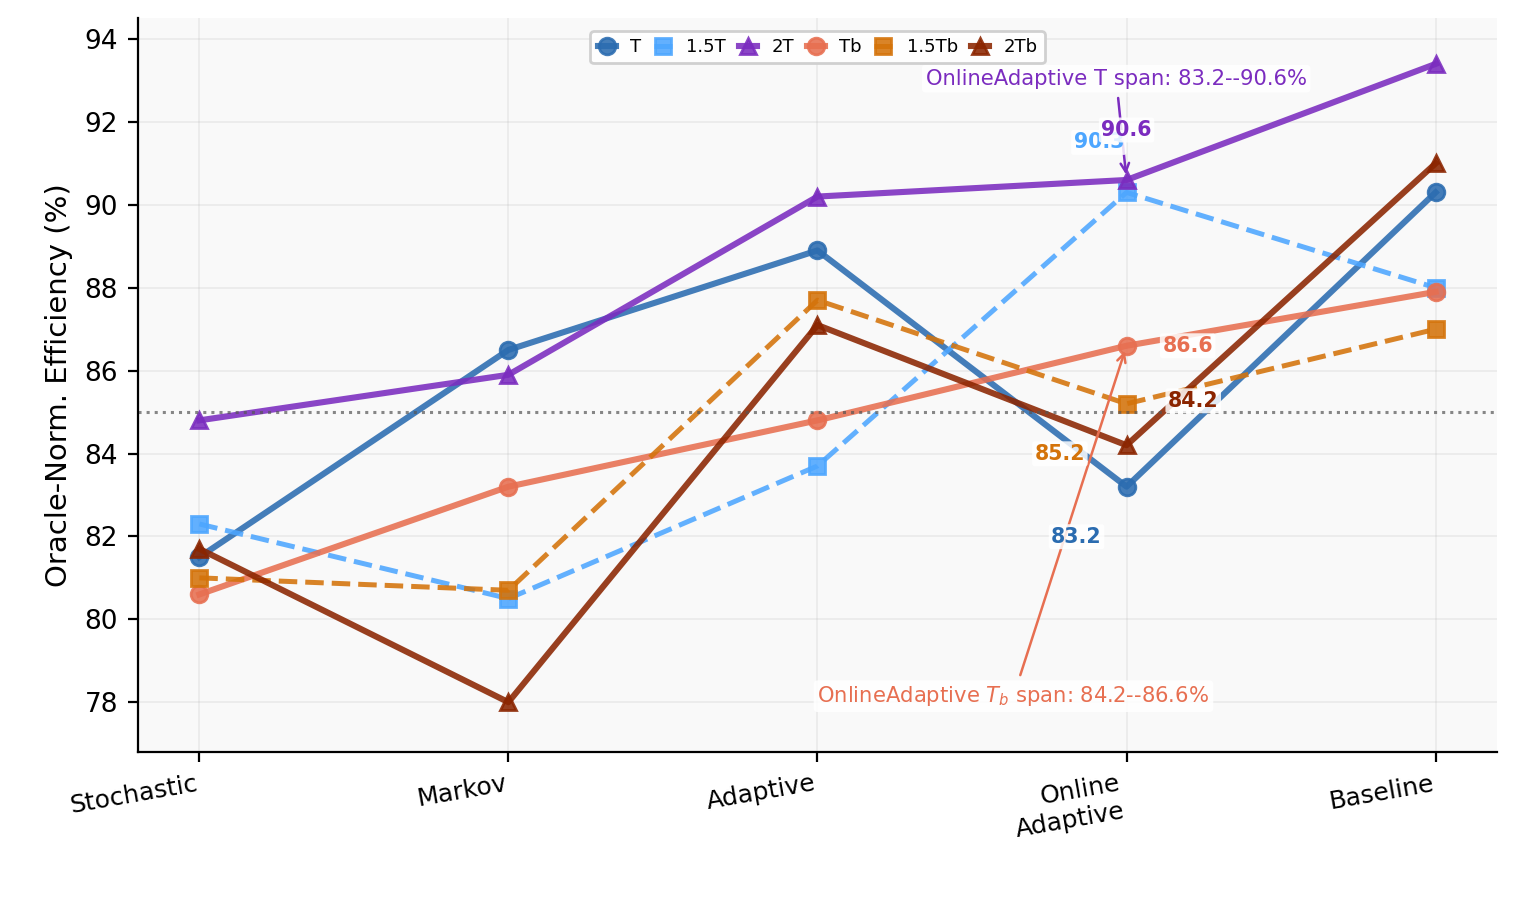
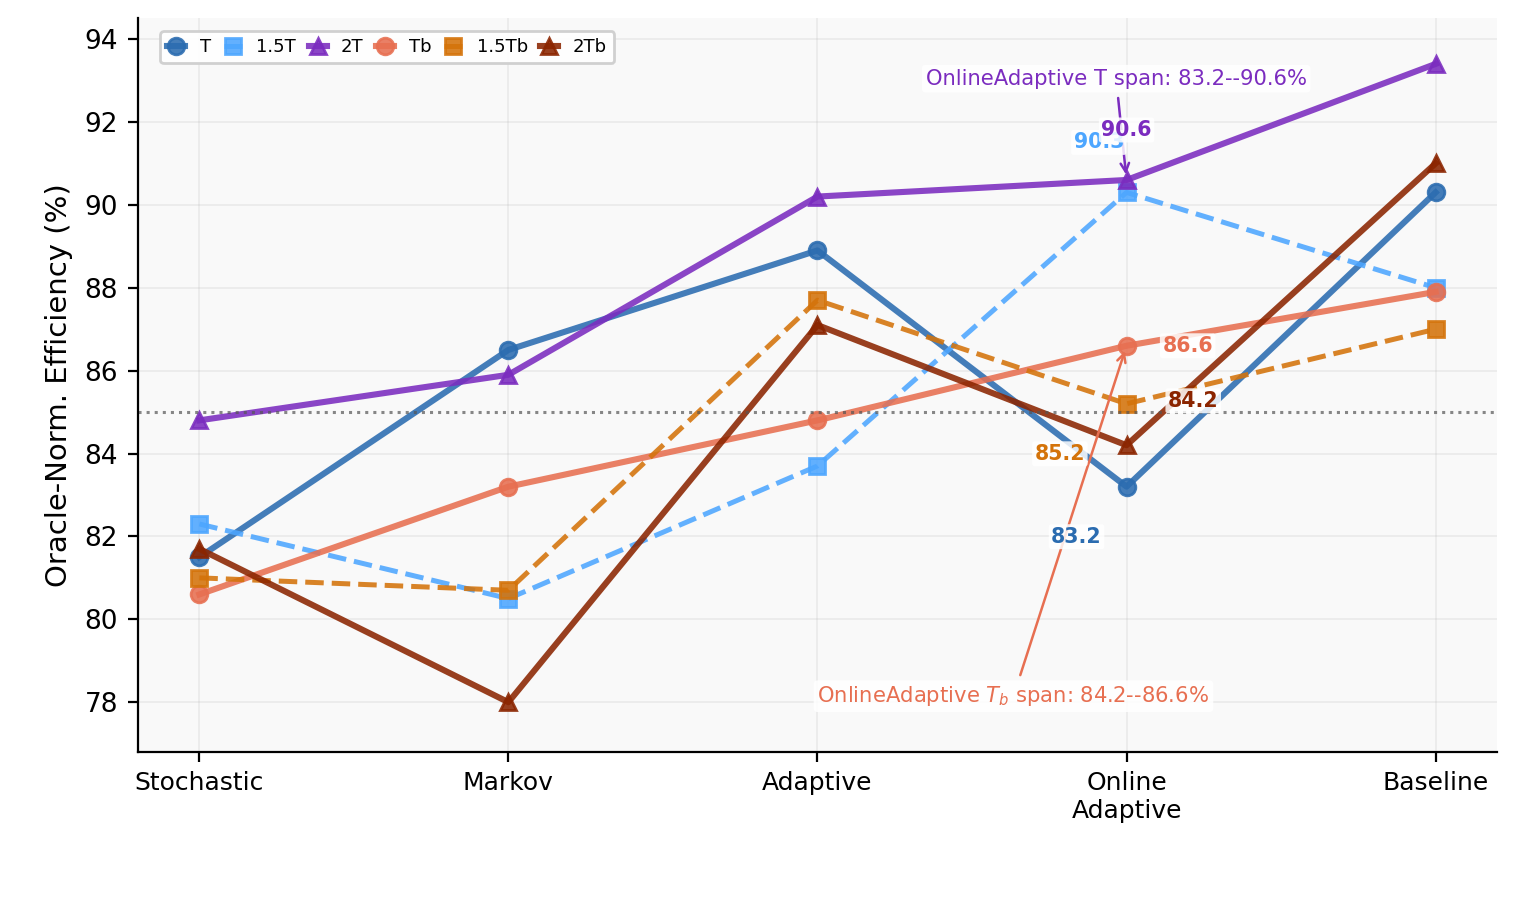
Flatten main figure x-axis labels

diff --git a/figures/icnp-exported-assets/build_G8_G9.py b/figures/icnp-exported-assets/build_G8_G9.py
@@ -49,6 +49,11 @@ OUT_PANEL_G = (
     / "icnp"
     / "ICNP-CODE-036_g9_network_gap_analysis_panel_g_scenario_penalty_vs_baseline_by_algorith.png"
 )
+OUT_PANEL_E = (
+    SCRIPT_DIR.parent
+    / "icnp"
+    / "ICNP-CODE-034_g9_network_gap_analysis_panel_e_threat_escalation_heatmap_algo_scenario.png"
+)
 OUT_PANEL_H = (
     SCRIPT_DIR.parent
     / "icnp"
@@ -303,10 +308,10 @@ def draw_capacity_all_configs_panel(ax, *, include_panel_label=True):
                     zorder=8, clip_on=False)
     ax.axhline(85,color=C['THRESH'],ls=':',lw=1.1,alpha=0.7)
     ax.text(4.95,85.2,'85% target',ha='right',va='bottom',fontsize=7.3,color=C['THRESH'])
-    ax.set_xticks(x6); ax.set_xticklabels(cap_scens,fontsize=9,rotation=10,ha='right')
+    ax.set_xticks(x6); ax.set_xticklabels(cap_scens,fontsize=9,rotation=0,ha='center')
     ax.set_ylim(76.8,94.5); ax.set_ylabel('Oracle-Norm. Efficiency (%)')
-    ax.legend(fontsize=6.5,ncol=6,frameon=True,framealpha=0.90,loc='upper center',
-              bbox_to_anchor=(0.5,0.995),columnspacing=0.7,handlelength=1.0)
+    ax.legend(fontsize=6.5,ncol=6,frameon=True,framealpha=0.90,loc='upper left',
+              bbox_to_anchor=(0.01,0.995),columnspacing=0.7,handlelength=1.0)
     ax.set_facecolor('#f9f9f9')
     ax.annotate('OnlineAdaptive T span: 83.2--90.6%',
                 xy=(3,CAP_DATA['2T'][3]),xytext=(2.35,92.9),fontsize=7.6,color=C['T2'],
@@ -335,6 +340,21 @@ def draw_scenario_penalty_panel(ax, *, include_panel_label=True):
     ax.set_facecolor('#f9f9f9')
     if include_panel_label:
         panel_label(ax,'G','Scenario Penalty vs Baseline by Algorithm & Threat')
+
+
+def draw_threat_heatmap_panel(ax, *, include_panel_label=True):
+    im=ax.imshow(HEAT_MAT,cmap='RdYlGn',aspect='auto',vmin=60,vmax=100)
+    ax.set_xticks(range(5)); ax.set_xticklabels(SCENARIOS,fontsize=8.5,rotation=0,ha='center')
+    ax.set_yticks(range(len(HEAT_ALGOS))); ax.set_yticklabels(HEAT_ALGOS,fontsize=8.5)
+    for i in range(len(HEAT_ALGOS)):
+        for j in range(5):
+            value=HEAT_MAT[i,j]
+            ax.text(j,i,f'{value:.0f}',ha='center',va='center',fontsize=8,fontweight='bold',
+                    color='white' if value<75 else '#1a1a1a')
+    plt.colorbar(im,ax=ax,shrink=0.85,label='Eff. %')
+    ax.grid(False)
+    if include_panel_label:
+        panel_label(ax,'E','Threat Escalation Heatmap: Algo × Scenario')
 
 
 def draw_oracle_gap_panel(ax, *, include_panel_label=True):
@@ -598,16 +618,7 @@ def build_G9():
     panel_label(ax4,'D','RQ1: Algorithm Tier Separation (Stochastic Decoherence)')
 
     # E: threat heatmap
-    im5=ax5.imshow(HEAT_MAT,cmap='RdYlGn',aspect='auto',vmin=60,vmax=100)
-    ax5.set_xticks(range(5)); ax5.set_xticklabels(SCENARIOS,fontsize=8.5,rotation=10,ha='right')
-    ax5.set_yticks(range(len(HEAT_ALGOS))); ax5.set_yticklabels(HEAT_ALGOS,fontsize=8.5)
-    for i in range(len(HEAT_ALGOS)):
-        for j in range(5):
-            v=HEAT_MAT[i,j]
-            ax5.text(j,i,f'{v:.0f}',ha='center',va='center',fontsize=8,fontweight='bold',
-                     color='white' if v<75 else '#1a1a1a')
-    plt.colorbar(im5,ax=ax5,shrink=0.85,label='Eff. %'); ax5.grid(False)
-    panel_label(ax5,'E','Threat Escalation Heatmap: Algo × Scenario')
+    draw_threat_heatmap_panel(ax5)
 
     # F: capacity paradox lines
     cap_styles={'T':('-',C['T'],'o',2.2),'1.5T':('--',C['T15'],'s',1.8),
@@ -618,7 +629,7 @@ def build_G9():
     for cname,(ls,col,mk,lw) in cap_styles.items():
         ax6.plot(x6,CAP_DATA[cname],ls=ls,color=col,marker=mk,lw=lw,ms=6,label=cname,alpha=0.88)
     ax6.axhline(85,color=C['THRESH'],ls=':',lw=1.1,alpha=0.7)
-    ax6.set_xticks(x6); ax6.set_xticklabels(cap_scens,fontsize=9,rotation=10,ha='right')
+    ax6.set_xticks(x6); ax6.set_xticklabels(cap_scens,fontsize=9,rotation=0,ha='center')
     ax6.set_ylim(77,94); ax6.set_ylabel('Oracle-Norm. Efficiency (%)')
     ax6.legend(fontsize=6.2,ncol=6,frameon=True,framealpha=0.88,loc='upper center',bbox_to_anchor=(0.5,0.99),columnspacing=0.7,handlelength=1.0)
     ax6.set_facecolor('#f9f9f9')
@@ -724,6 +735,17 @@ def build_scenario_penalty_panel():
     print(f"Wrote {OUT_PANEL_G}")
 
 
+def build_threat_heatmap_panel():
+    base_style()
+    fig, ax = plt.subplots(figsize=(7.64, 4.58), dpi=200)
+    fig.patch.set_facecolor('white')
+    draw_threat_heatmap_panel(ax, include_panel_label=False)
+    fig.subplots_adjust(left=0.17, right=0.98, top=0.97, bottom=0.13)
+    fig.savefig(OUT_PANEL_E, dpi=200, facecolor='white')
+    plt.close(fig)
+    print(f"Wrote {OUT_PANEL_E}")
+
+
 def build_cross_testbed_panel():
     base_style()
     fig, ax = plt.subplots(figsize=(7.64, 4.545), dpi=200)
@@ -739,7 +761,7 @@ if __name__ == "__main__":
     parser = argparse.ArgumentParser(description="Build ICNP G8/G9 result figures.")
     parser.add_argument(
         "--only",
-        choices=["all", "panel-c", "panel-d", "panel-f", "panel-g", "panel-h", "panel-i"],
+        choices=["all", "panel-c", "panel-d", "panel-e", "panel-f", "panel-g", "panel-h", "panel-i"],
         default="all",
         help="Build all figures or only one manuscript-facing labeled panel.",
     )
@@ -748,6 +770,8 @@ if __name__ == "__main__":
         build_oracle_gap_panel()
     elif args.only == "panel-d":
         build_rq1_tier_panel()
+    elif args.only == "panel-e":
+        build_threat_heatmap_panel()
     elif args.only == "panel-f":
         build_capacity_all_configs_panel()
     elif args.only == "panel-g":
@@ -761,6 +785,7 @@ if __name__ == "__main__":
         build_G9()
         build_oracle_gap_panel()
         build_rq1_tier_panel()
+        build_threat_heatmap_panel()
         build_capacity_all_configs_panel()
         build_scenario_penalty_panel()
         build_allocator_risk_panel()
